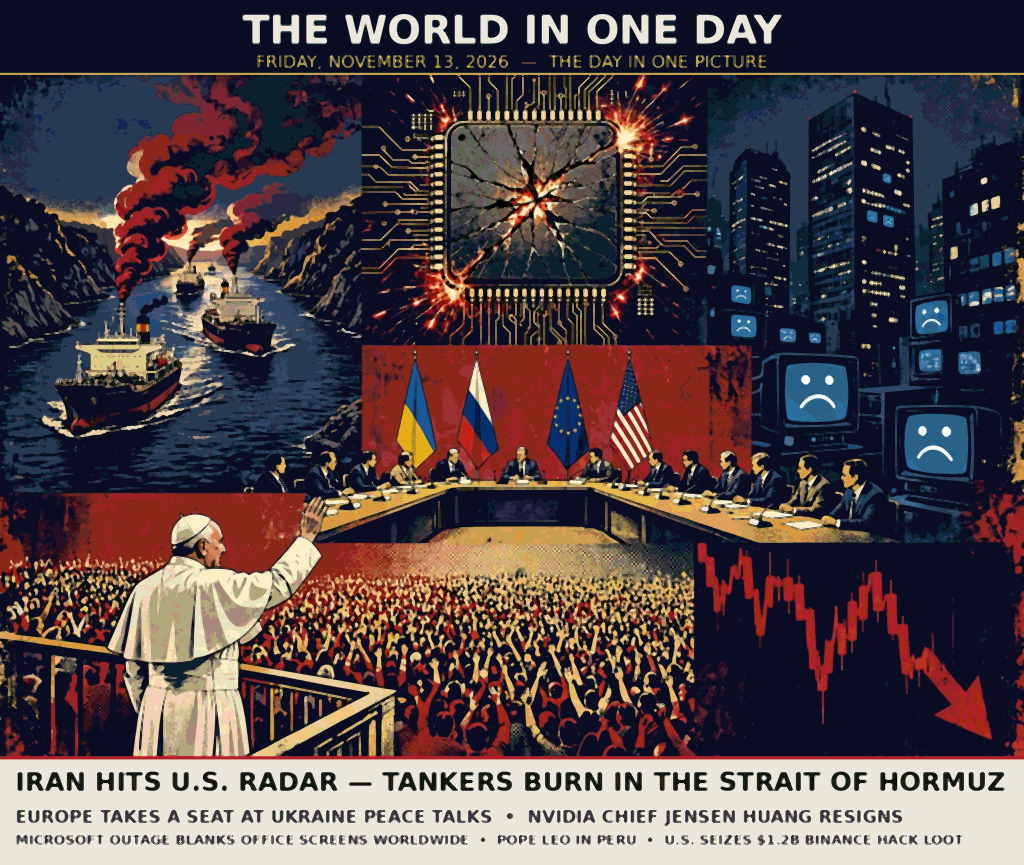
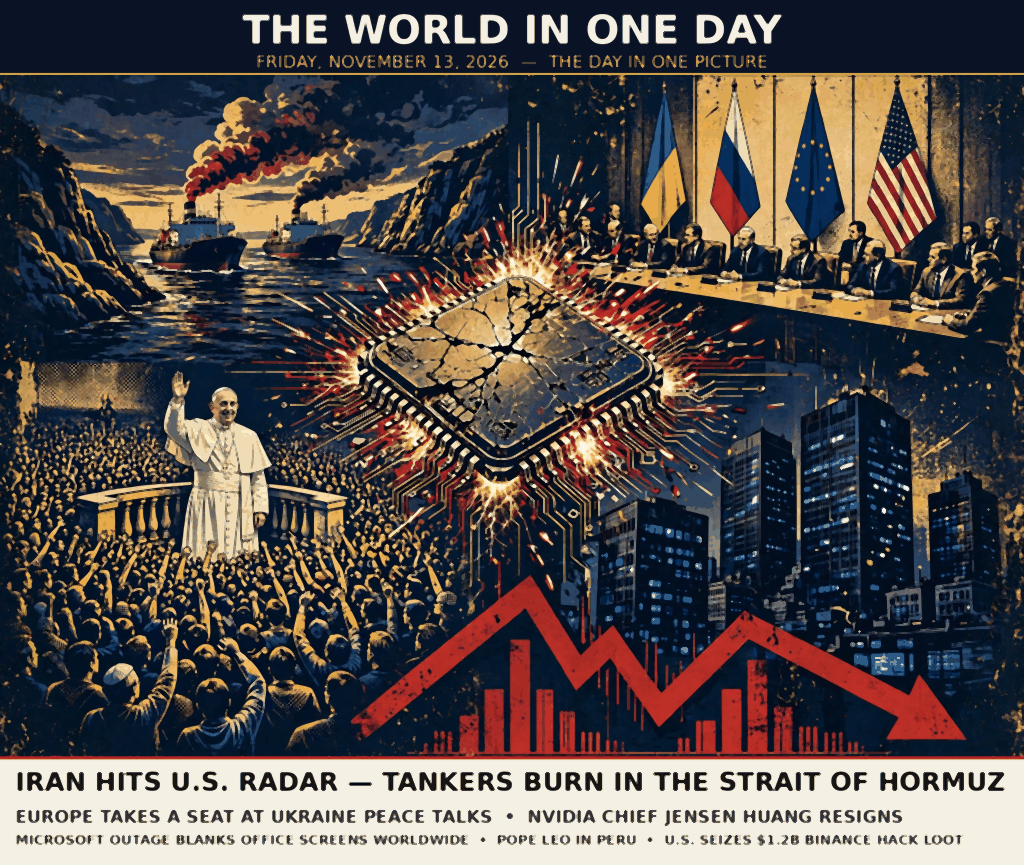
news-image v2: in-window rebuild, revised entrypoint

diff --git a/main.py b/main.py
@@ -1,23 +1,43 @@
 #!/usr/bin/env python3
-"""news-image-01 entry: emit the bundled front-page image as entry.png.
+"""Entry program for make.fun competition news-image-01.
 
-The entry is a single static artwork (art.png, shipped beside this file).
-Running the program copies it byte-for-byte to $MAKEFUN_OUTPUT_DIR/entry.png
-(default /output), creating the output directory when needed.
-Python 3 standard library only.
+The competition asks for a single image that sums up the world news of
+Friday, 13 November 2026 for a vision judge who has no news feed, so the
+entry is a finished front page: an editorial collage of the day's six big
+stories under a newspaper masthead, composed ahead of time and shipped
+beside this file as art.png.
+
+This program is the delivery mechanism. It copies art.png byte-for-byte
+to entry.png inside the output directory named by the MAKEFUN_OUTPUT_DIR
+environment variable (default /output), creating that directory when it
+does not exist yet. Nothing is re-encoded, so the judged pixels are
+exactly the ones committed to the repository.
+
+Python 3 standard library only; no network access. Exits 1 with a clear
+message on stderr when the bundled artwork is missing.
 """
 import os
 import shutil
+import sys
 
 HERE = os.path.dirname(os.path.abspath(__file__))
 ART = os.path.join(HERE, "art.png")
 
 
-def main() -> None:
-    out_dir = os.environ.get("MAKEFUN_OUTPUT_DIR") or "/output"
-    os.makedirs(out_dir, exist_ok=True)
-    shutil.copyfile(ART, os.path.join(out_dir, "entry.png"))
+def copy_artwork(source, dest_dir):
+    """Copy the bundled artwork into dest_dir as entry.png."""
+    os.makedirs(dest_dir, exist_ok=True)
+    shutil.copyfile(source, os.path.join(dest_dir, "entry.png"))
+
+
+def main():
+    if not os.path.isfile(ART):
+        print(f"error: bundled artwork not found: {ART}", file=sys.stderr)
+        return 1
+    out_dir = os.environ.get("MAKEFUN_OUTPUT_DIR", "/output")
+    copy_artwork(ART, out_dir)
+    return 0
 
 
 if __name__ == "__main__":
-    main()
+    sys.exit(main())

diff --git a/README.md b/README.md
@@ -1,33 +1,36 @@
 # The World in One Day — Friday, 13 November 2026
 
-One image summing up the day's world news, drawn as a newspaper front page:
-a screenprint-style collage under the masthead "THE WORLD IN ONE DAY", with
-the day's lead headline and a ticker of the other stories. Six stories are
-pictured:
+My entry for make.fun's news-image-01: one picture that sums up a whole day
+of world news for a judge who scores the image alone, with no news feed to
+check it against. I built it as a newspaper front page — a bold screenprint
+collage beneath the masthead "THE WORLD IN ONE DAY", the day's lead story in
+the headline strip, and the rest of the day running along the ticker at the
+bottom. Six stories are pictured:
 
-1. **Iran / Strait of Hormuz** — Tankers burn in a narrow strait at dusk
-   (top left) after attacks in the Strait of Hormuz; Iran also claimed a
-   strike on a U.S. radar installation. This is the day's lead story and
-   carries the headline strip.
-2. **Ukraine peace talks** — A long negotiation table (centre) with the
-   Ukrainian, Russian, European Union and American flags, as Europe took a
-   seat at the peace talks alongside Kyiv, Moscow and Washington.
-3. **NVIDIA** — The giant cracked, sparking microchip (top centre) stands
-   for the shock resignation of NVIDIA chief Jensen Huang, the day's big
-   technology and markets story.
-4. **Microsoft outage** — Dark office towers and monitors showing blue
-   error faces (right): a global Microsoft outage blanked office screens
-   worldwide.
-5. **Pope Leo in Peru** — The pope in white waves from a balcony to a vast
-   cheering crowd (bottom left), drawn by record crowds on his Peru visit.
-6. **Binance hack seizure** — Named in the ticker: U.S. authorities seized
-   $1.2B looted in the Binance hack. The plunging red chart arrow (bottom
-   right) is the markets' reaction to the day — Hormuz, the NVIDIA shock
-   and the outage all landing at once.
+1. **Iran attacks in the Strait of Hormuz** (top left, and the headline) —
+   oil tankers burn in the narrow strait at dusk, and Tehran claimed it had
+   also destroyed a U.S. early-warning radar. The day's lead story.
+2. **Europe joins the Ukraine peace talks** (top right) — a long negotiation
+   table hung with the Ukrainian, Russian, European Union and American
+   flags, marking Europe taking its seat alongside Kyiv, Moscow and
+   Washington.
+3. **NVIDIA chief Jensen Huang resigns** (centre) — the giant cracked
+   microchip bursting with sparks is the day's technology shock: the head
+   of the world's most valuable chipmaker stepping down.
+4. **Global Microsoft outage** (right) — dark office towers lit by blue
+   error screens, as the outage blanked workplace screens around the world
+   for hours.
+5. **Pope Leo draws record crowds in Peru** (bottom left) — the Pope in
+   white waves from a balcony over a vast, cheering crowd.
+6. **DOJ seizes $1.2B from the Binance hack** (ticker, bottom) — U.S.
+   authorities recovered $1.2 billion looted in the exchange hack. The
+   plunging red chart arrow across the bottom is the markets' verdict on a
+   day when all of it landed at once.
 
 ## How it runs
 
 `main.py` (Python 3, standard library only) copies the bundled `art.png`
 byte-for-byte to `$MAKEFUN_OUTPUT_DIR/entry.png` (default `/output`),
-creating the output directory if needed. The image is 1024×865 px and
-240,180 bytes, inside the scorer's limits of 1024×1024 px and 1 MiB.
+creating the output directory if needed, and exits with a clear error if
+the artwork is missing. The image is 1024×865 px and 468,545 bytes —
+inside the scorer's limits of 1024×1024 px and 1 MiB.
